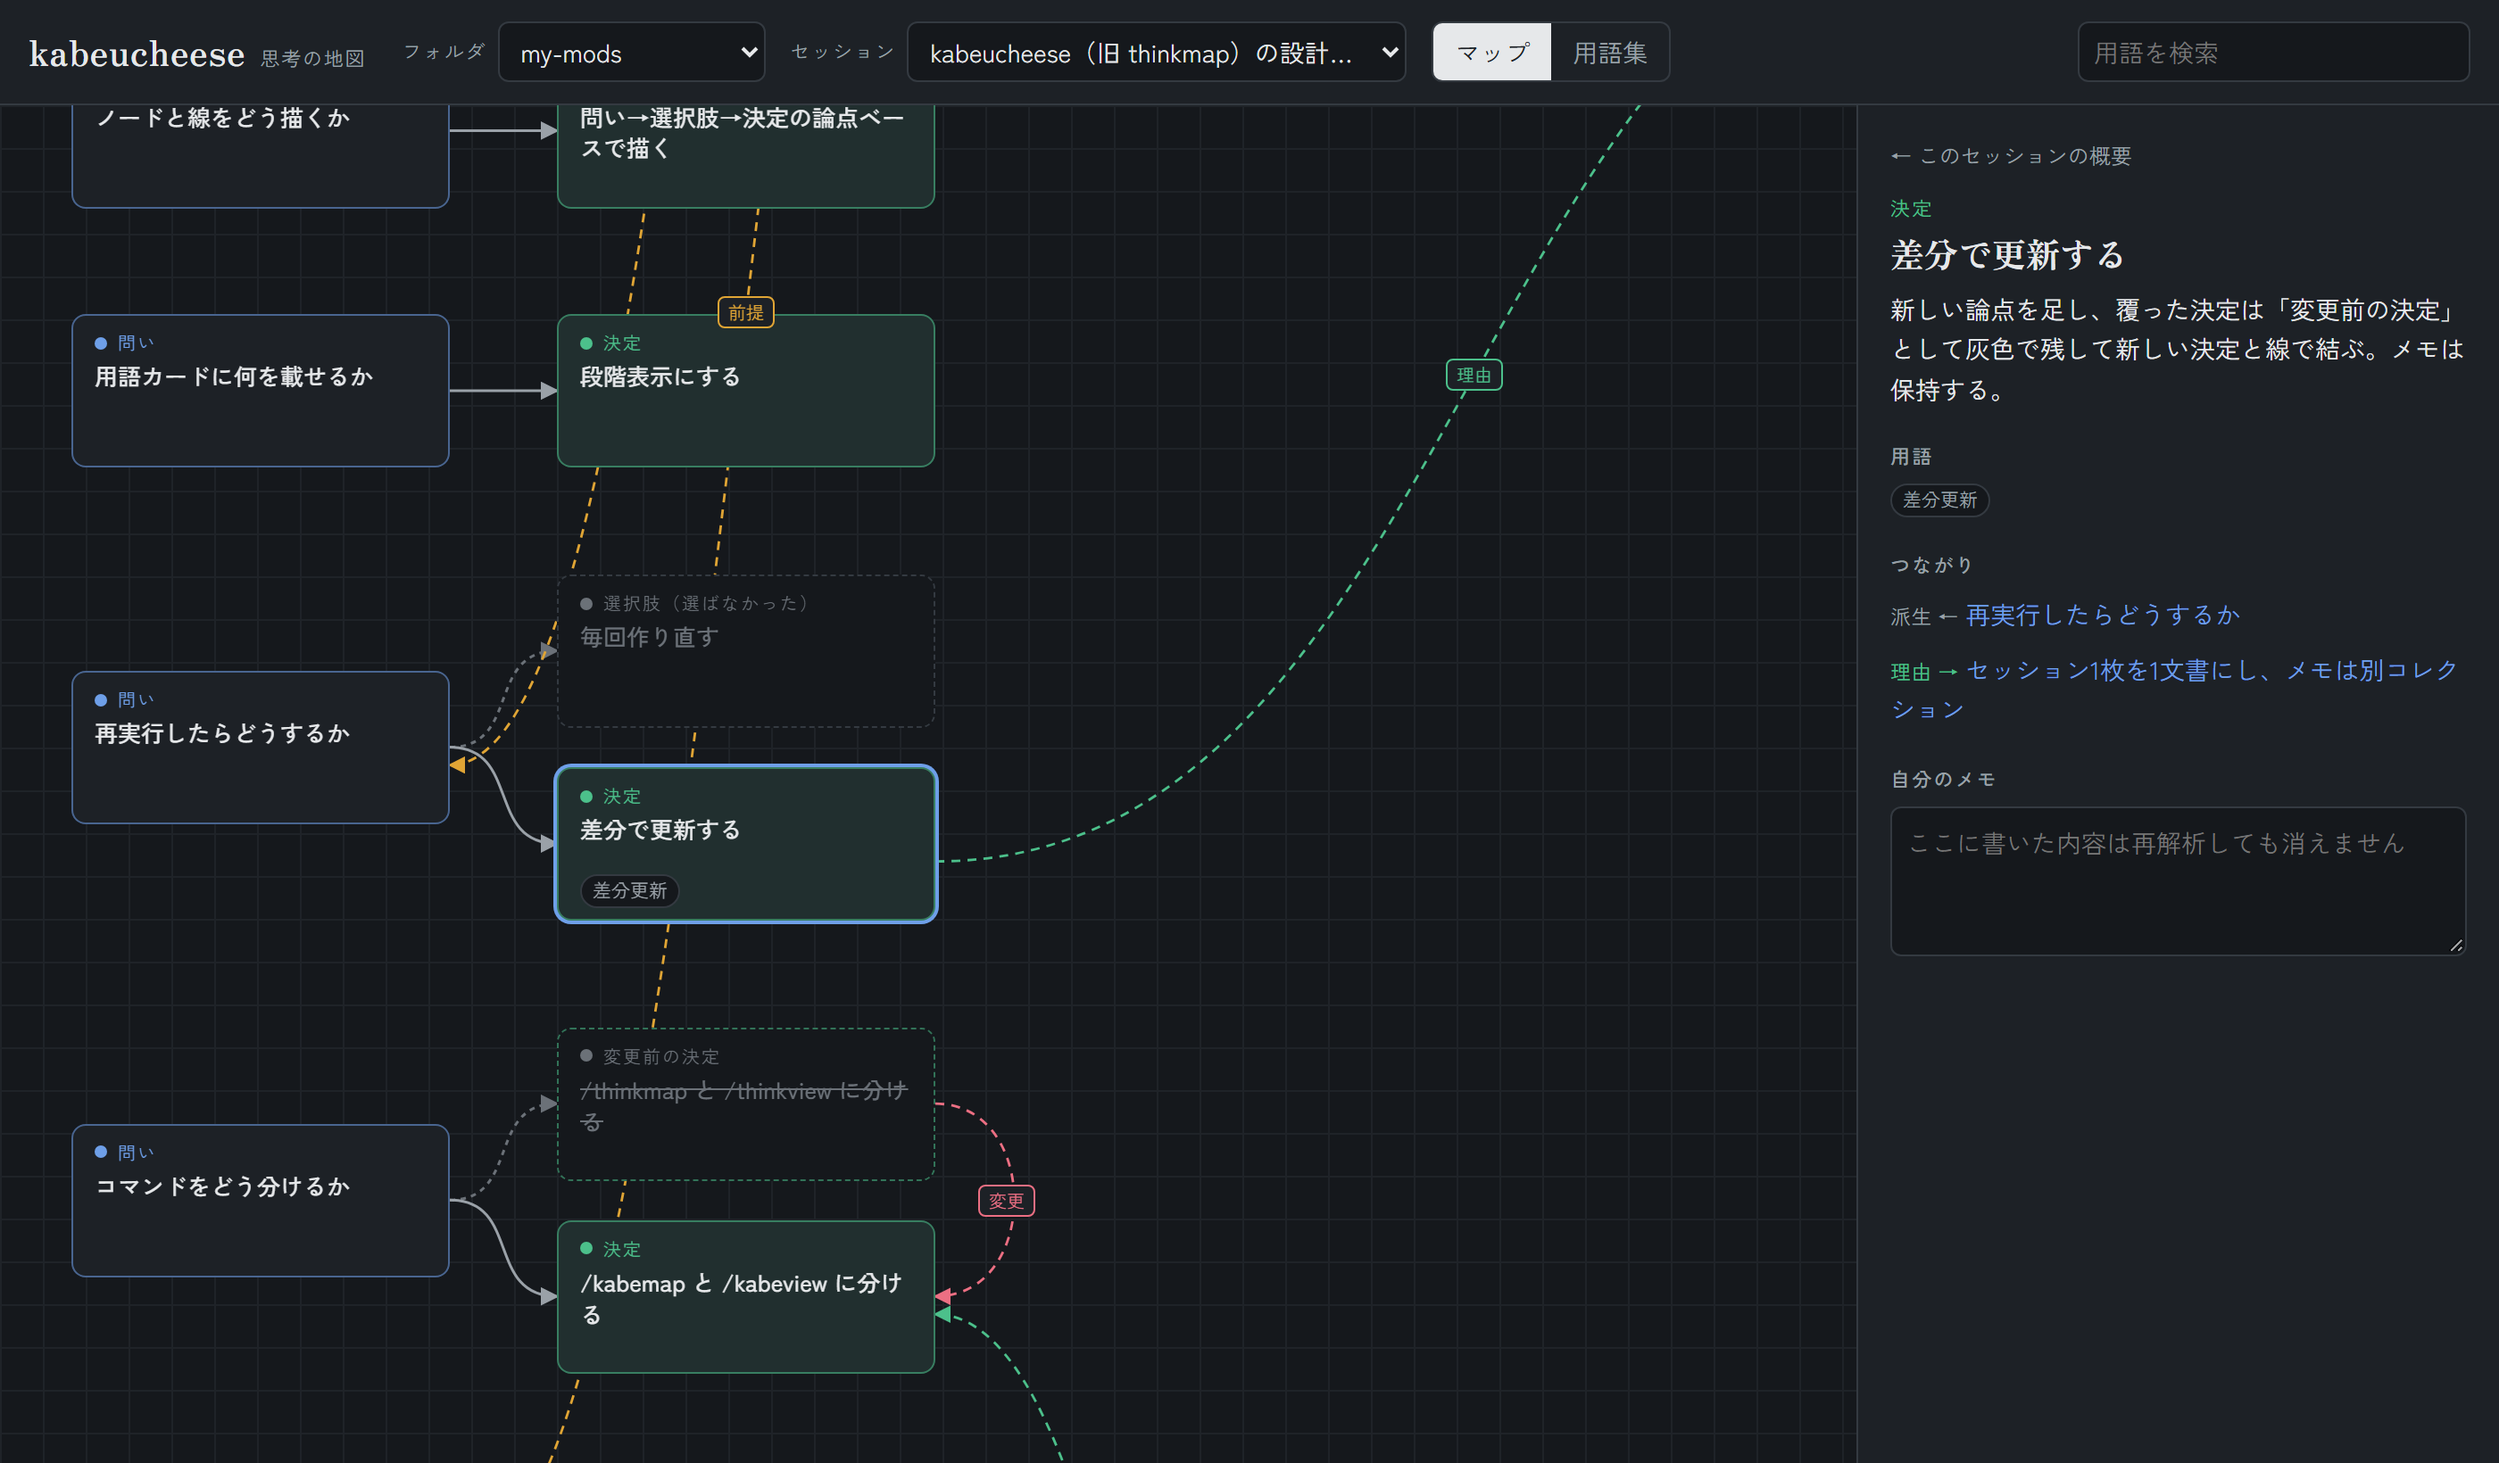
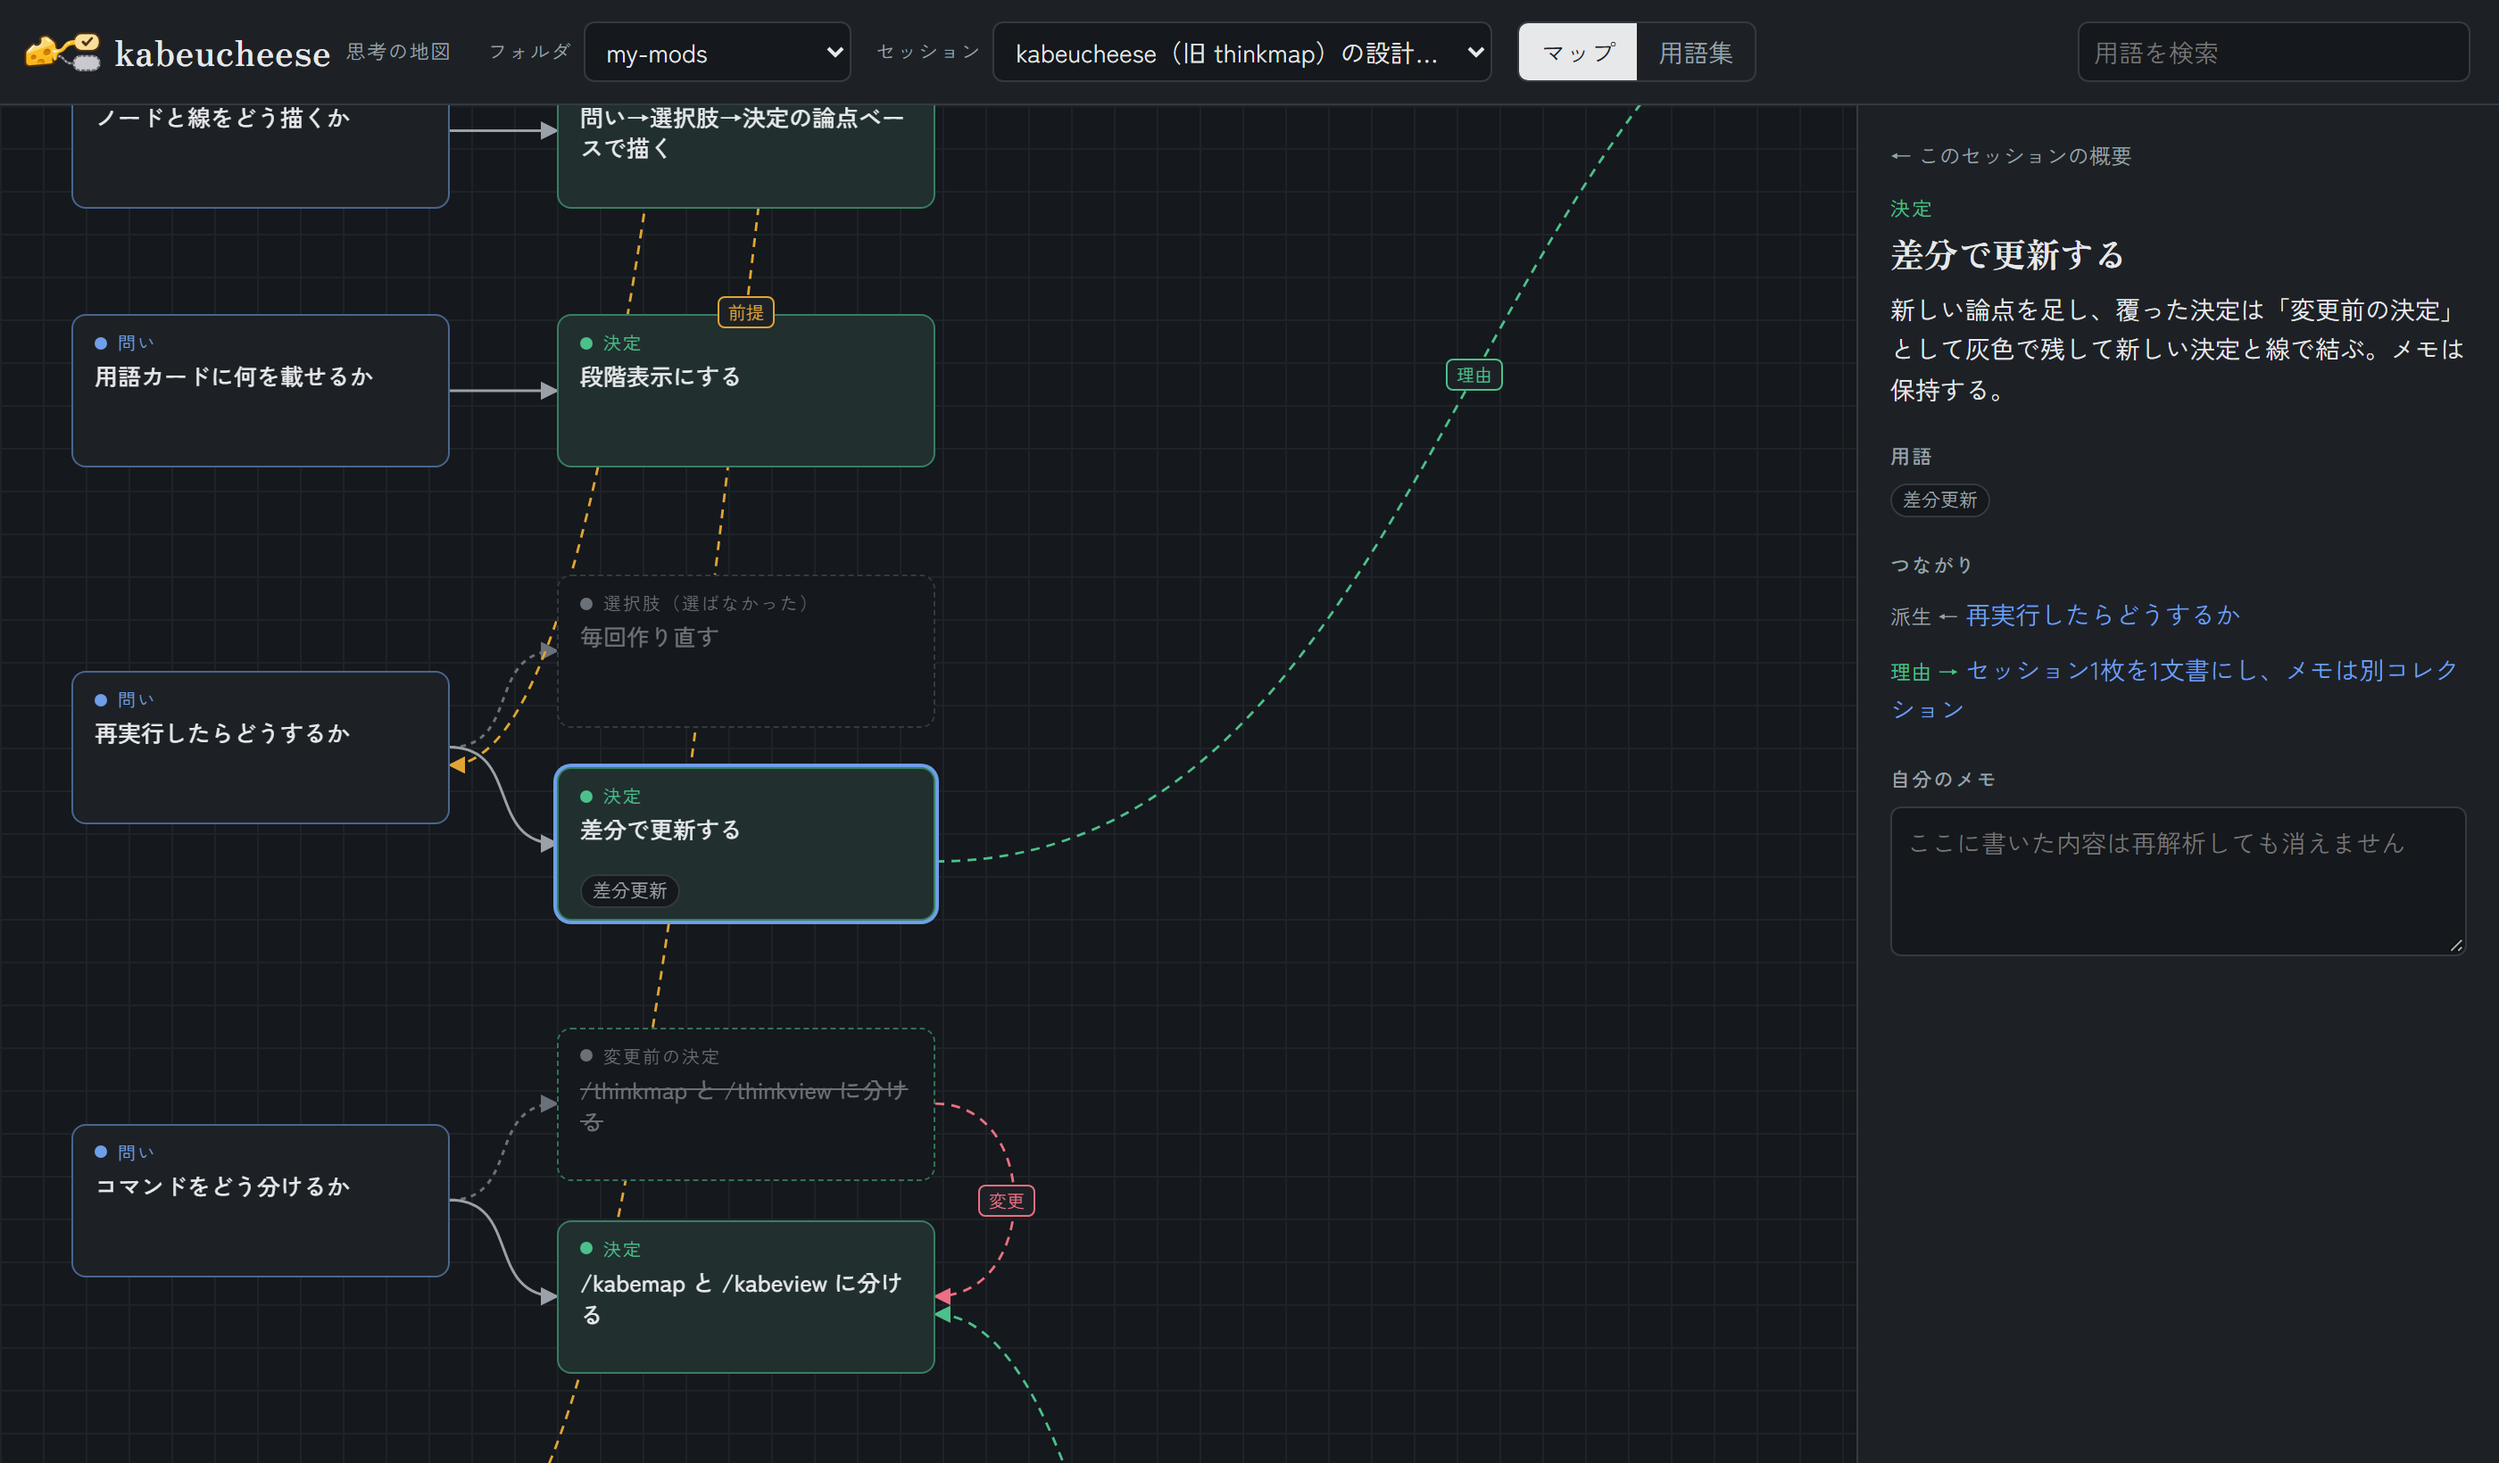
kabeucheese: アイコンを追加し、README と Artifact の見出しに載せる
- 背景を透明にしたアイコンを docs/logo.png に追加し、README の冒頭に表示
- Artifact の見出しにアイコンを入れ、スクリーンショットを撮り直した

Changed region(s): [[0.3729, 0.0, 0.7146, 0.0622], [0.0, 0.0311, 0.2796, 0.0622], [0.3107, 0.0311, 0.3418, 0.0622]]

diff --git a/artifact/index.html b/artifact/index.html
@@ -49,7 +49,8 @@ header.top {
   padding-block: 12px; padding-left: max(16px, env(safe-area-inset-left, 0px)); padding-right: max(16px, env(safe-area-inset-right, 0px));
   border-bottom: 1px solid var(--line); background: var(--surface);
 }
-.brand { font-family: var(--font-display); font-size: 20px; font-weight: 700; letter-spacing: .02em; margin-right: 6px; }
+.brand { font-family: var(--font-display); font-size: 20px; font-weight: 700; letter-spacing: .02em; margin-right: 6px; display: flex; align-items: center; }
+.brand .logo { width: 46px; height: 46px; margin: -10px 6px -10px -4px; flex: none; }
 .brand small { font-family: var(--font-body); font-size: 11px; color: var(--muted); font-weight: 400; margin-left: 8px; letter-spacing: .08em; }
 .ctl { display: flex; align-items: center; gap: 6px; min-width: 0; }
 .ctl label { font-size: 11px; color: var(--muted); letter-spacing: .08em; white-space: nowrap; flex: none; }
@@ -166,7 +167,7 @@ textarea { width: 100%; box-sizing: border-box; min-height: 84px; resize: vertic
 
 <div class="app">
   <header class="top">
-    <div class="brand">kabeucheese<small>思考の地図</small></div>
[1 lines of base64/hex data omitted]
     <div class="ctl"><label for="folderSel">フォルダ</label><select id="folderSel"></select></div>
     <div class="ctl"><label for="sessionSel">セッション</label><select id="sessionSel"></select></div>
     <div class="tabs" role="group" aria-label="表示">

diff --git a/README.md b/README.md
@@ -1,3 +1,5 @@
+<p align="center"><img src="docs/logo.png" alt="kabeucheese のアイコン。チーズから伸びた糸が、チェックの付いた決定と、灰色の点線の選ばなかった案につながっている" width="200"></p>
+
 # kabeucheese
 
 Claude Code で Claude と壁打ちしたときに、自分がどんな思考をたどったかを後から見返すための Mod（プラグイン）。
